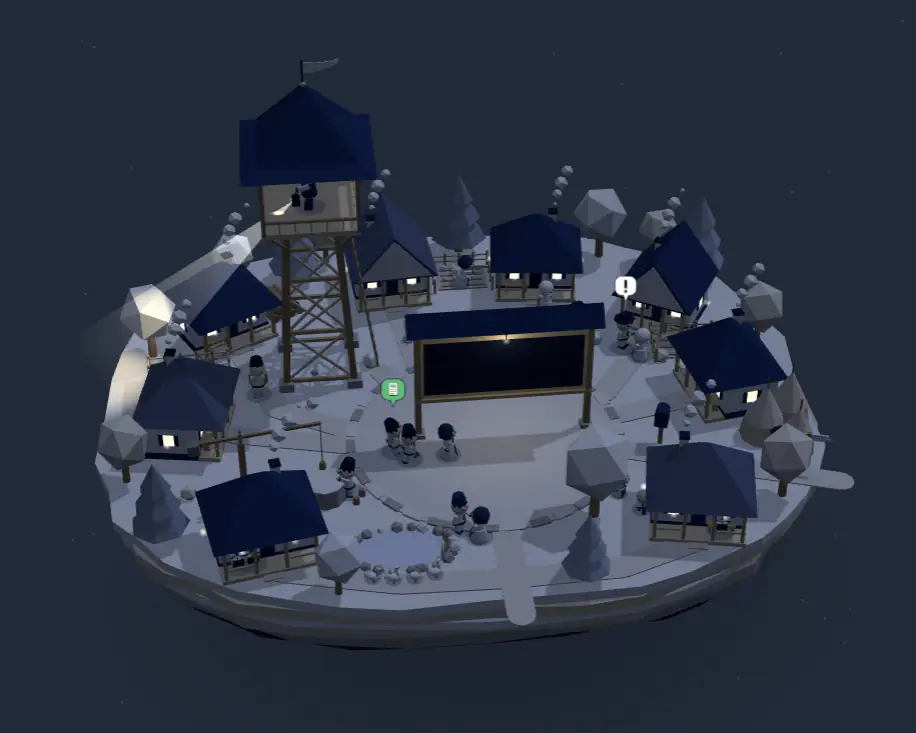
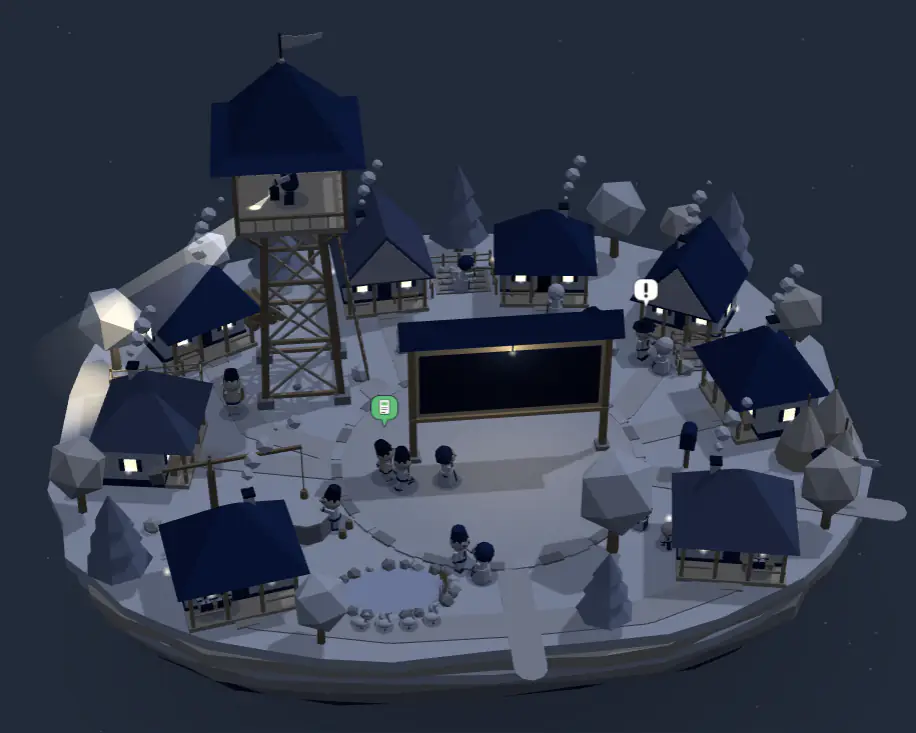
Match posters to the final framing, per-angle fit, phone close-up gating, round-2 captures

diff --git a/src/components/home/sat/VillageHero.tsx b/src/components/home/sat/VillageHero.tsx
@@ -71,8 +71,6 @@ export default function VillageHero({ bills }: { bills: BillLite[]; counts: Risk
   const liveRefs = useRef<(HTMLButtonElement | null)[]>([]);
   const posterRefs = useRef<(HTMLButtonElement | null)[]>([]);
   const fromUser = useRef(false);
-  const touchMode = useRef({ coarse: false, zoomed: false });
-  touchMode.current = { coarse, zoomed };
   const latest = useRef({ notices, newspaper, activeId: active?.id ?? null });
   latest.current = { notices, newspaper, activeId: active?.id ?? null };
 
@@ -111,9 +109,8 @@ export default function VillageHero({ bills }: { bills: BillLite[]; counts: Risk
             poster,
             surface: box,
             onProject: (rects, facing) => {
-              const { coarse: c, zoomed: z } = touchMode.current;
-              // Pe telefon, în afara prim-planului, o atingere pe tablă apropie camera; afișele se aleg de aproape.
-              const tappable = facing && !(c && !z);
+              // Cu tabla întoarsă, afișele nu se pot apăsa (rămân accesibile din tastatură și din ‹ ›).
+              const pe = facing ? '' : 'none';
               liveRefs.current.forEach((el, i) => {
                 if (!el) return;
                 const w = Math.max(rects[i * 4 + 2], 6) + 2;
@@ -121,7 +118,7 @@ export default function VillageHero({ bills }: { bills: BillLite[]; counts: Risk
                 el.style.width = `${w}px`;
                 el.style.height = `${h}px`;
                 el.style.transform = `translate(${rects[i * 4] - w / 2}px, ${rects[i * 4 + 1] - h / 2}px)`;
-                el.style.pointerEvents = tappable ? 'auto' : 'none';
+                el.style.pointerEvents = pe;
               });
               const b = boardRef.current;
               const n = (rects.length >> 2) - 1;
@@ -131,7 +128,7 @@ export default function VillageHero({ bills }: { bills: BillLite[]; counts: Risk
                 b.style.width = `${w}px`;
                 b.style.height = `${h}px`;
                 b.style.transform = `translate(${rects[n * 4] - w / 2}px, ${rects[n * 4 + 1] - h / 2}px)`;
-                b.style.pointerEvents = facing ? 'auto' : 'none';
+                b.style.pointerEvents = pe;
               }
             },
             onFirstFrame: () => setReady(true),
@@ -210,7 +207,10 @@ export default function VillageHero({ bills }: { bills: BillLite[]; counts: Risk
     if (mode !== 'live') return;
     const sync = () => sceneRef.current?.setTheme();
     const mo = new MutationObserver(sync);
-    mo.observe(document.documentElement, { attributes: true, attributeFilter: ['data-theme'] });
+    mo.observe(document.documentElement, {
+      attributes: true,
+      attributeFilter: ['data-theme'],
+    });
     const mq = window.matchMedia('(prefers-color-scheme: dark)');
     mq.addEventListener('change', sync);
     return () => {
@@ -245,10 +245,24 @@ export default function VillageHero({ bills }: { bills: BillLite[]; counts: Risk
   };
 
   const live = mode === 'live' && ready;
+  const closeUpFirst = coarse && !zoomed;
+
+  // Când scena preia de la poster, focusul de pe un afiș trece pe același afiș din scenă.
+  const focusedPoster = useRef(-1);
+  useEffect(() => {
+    if (!live || focusedPoster.current < 0) return;
+    liveRefs.current[focusedPoster.current]?.focus({ preventScroll: true });
+    focusedPoster.current = -1;
+  }, [live]);
   const refs = live ? liveRefs : posterRefs;
   const onNoticeKey = (e: KeyboardEvent<HTMLButtonElement>, i: number) => {
     const { cols } = boardGrid(open.length);
-    const delta = { ArrowRight: 1, ArrowLeft: -1, ArrowDown: cols, ArrowUp: -cols }[e.key];
+    const delta = {
+      ArrowRight: 1,
+      ArrowLeft: -1,
+      ArrowDown: cols,
+      ArrowUp: -cols,
+    }[e.key];
     if (!delta) return;
     e.preventDefault();
     const j = Math.min(open.length - 1, Math.max(0, i + delta));
@@ -285,28 +299,41 @@ export default function VillageHero({ bills }: { bills: BillLite[]; counts: Risk
         {/* Posterul apare imediat, din CSS (după temă); scena 3D îl acoperă când e gata. */}
         <div
           aria-hidden
-          className={`absolute inset-0 bg-[image:var(--sat-poster)] bg-[length:100%_100%] bg-no-repeat transition-opacity duration-700 motion-reduce:transition-none ${
-            live ? 'opacity-0' : 'opacity-100'
+          className={`absolute inset-0 bg-[image:var(--sat-poster)] bg-[length:100%_100%] bg-no-repeat transition-opacity motion-reduce:transition-none ${
+            live ? 'opacity-0 delay-700 duration-200' : 'opacity-100'
           }`}
         />
-        {!live && <PosterNotices open={open} activeId={active?.id} onPick={pick} refs={posterRefs} onKey={onNoticeKey} onChoose={choose} />}
+        {!live && (
+          <PosterNotices
+            open={open}
+            activeId={active?.id}
+            onPick={pick}
+            refs={posterRefs}
+            onKey={onNoticeKey}
+            onChoose={choose}
+            onFocusAt={(i) => (focusedPoster.current = i)}
+          />
+        )}
         <canvas
           ref={canvasRef}
           aria-hidden
           className={`absolute inset-0 h-full w-full transition-opacity duration-700 motion-reduce:transition-none ${live ? 'opacity-100' : 'opacity-0'}`}
         />
         {mode === 'live' && (
-          <div className="absolute inset-0" role="group" aria-label="Afișele de pe avizier. Alege un afiș ca să vezi proiectul.">
-            {coarse && !zoomed && (
-              <button
-                ref={boardRef}
-                type="button"
-                tabIndex={-1}
-                aria-hidden
-                className="absolute left-0 top-0 h-0 w-0 rounded-md bg-transparent"
-                onClick={() => sceneRef.current?.setZoom(true)}
-              />
-            )}
+          <div
+            className={`absolute inset-0 ${closeUpFirst ? '[&_button[aria-pressed]]:pointer-events-none' : ''}`}
+            role="group"
+            aria-label="Afișele de pe avizier. Alege un afiș ca să vezi proiectul."
+          >
+            {/* Pe telefon, o atingere pe tablă apropie camera; afișele se aleg apoi de aproape. */}
+            <button
+              ref={boardRef}
+              type="button"
+              tabIndex={-1}
+              aria-hidden
+              className={`absolute left-0 top-0 h-0 w-0 rounded-md bg-transparent ${closeUpFirst ? '' : 'hidden'}`}
+              onClick={() => sceneRef.current?.setZoom(true)}
+            />
             {open.map((b, i) => (
               <button
                 key={b.id}
@@ -394,6 +421,7 @@ function PosterNotices({
   refs,
   onKey,
   onChoose,
+  onFocusAt,
 }: {
   open: BillLite[];
   activeId: string | undefined;
@@ -401,43 +429,55 @@ function PosterNotices({
   refs: RefObject<(HTMLButtonElement | null)[]>;
   onKey: (e: KeyboardEvent<HTMLButtonElement>, i: number) => void;
   onChoose: (id: string) => void;
+  onFocusAt: (i: number) => void;
 }) {
   const { cols, rows } = boardGrid(open.length);
   return (
     <div
-      role="group"
-      aria-label="Afișele de pe avizier. Alege un afiș ca să vezi proiectul."
-      className="absolute grid gap-x-[1.8%] gap-y-[9%] p-[0.4%]"
+      className="absolute"
       style={{
         left: `${POSTER_BOARD.left}%`,
         top: `${POSTER_BOARD.top}%`,
         width: `${POSTER_BOARD.width}%`,
         height: `${POSTER_BOARD.height}%`,
-        gridTemplateColumns: `repeat(${cols}, minmax(0, 1fr))`,
-        gridTemplateRows: `repeat(${rows}, minmax(0, 1fr))`,
         transform: `skewY(${POSTER_BOARD.skew}deg)`,
       }}
     >
-      {open.map((b, i) => {
-        const on = b.id === activeId;
-        return (
-          <button
-            key={b.id}
-            ref={(el) => {
-              refs.current[i] = el;
-            }}
-            type="button"
-            aria-pressed={on}
-            aria-label={label(b)}
-            className={`mx-auto aspect-[11/10] h-full max-w-full rounded-[1px] ${RISK[b.analysis.consensus.riskLevel].fill} ${on ? 'relative z-10 scale-125 ring-2 ring-surface' : ''} transition-transform`}
-            onMouseEnter={() => onPick(b.id, false)}
-            onFocus={() => onPick(b.id, true)}
-            onClick={() => onChoose(b.id)}
-            onKeyDown={(e) => onKey(e, i)}
-            {...trackAttrs('village_select', { bill_id: b.id })}
-          />
-        );
-      })}
+      {/* Aceeași așezare ca în scenă: marginea tablei, apoi câte o celulă pe afiș. */}
+      <div
+        role="group"
+        aria-label="Afișele de pe avizier. Alege un afiș ca să vezi proiectul."
+        className="absolute inset-x-[2.9%] inset-y-[6.5%] grid"
+        style={{
+          gridTemplateColumns: `repeat(${cols}, minmax(0, 1fr))`,
+          gridTemplateRows: `repeat(${rows}, minmax(0, 1fr))`,
+        }}
+      >
+        {open.map((b, i) => {
+          const on = b.id === activeId;
+          return (
+            <button
+              key={b.id}
+              ref={(el) => {
+                refs.current[i] = el;
+              }}
+              type="button"
+              aria-pressed={on}
+              aria-label={label(b)}
+              className={`h-[84%] w-[82%] place-self-center rounded-[1px] ${RISK[b.analysis.consensus.riskLevel].fill} ${on ? 'relative z-10 scale-125 ring-2 ring-surface' : ''} transition-transform`}
+              onMouseEnter={() => onPick(b.id, false)}
+              onFocus={() => {
+                onPick(b.id, true);
+                onFocusAt(i);
+              }}
+              onBlur={(e) => e.relatedTarget && onFocusAt(-1)}
+              onClick={() => onChoose(b.id)}
+              onKeyDown={(e) => onKey(e, i)}
+              {...trackAttrs('village_select', { bill_id: b.id })}
+            />
+          );
+        })}
+      </div>
     </div>
   );
 }

diff --git a/src/components/home/sat/scene/index.ts b/src/components/home/sat/scene/index.ts
@@ -79,6 +79,9 @@ const NIGHT = {
   sunPos: new Vector3(8, 15, -4),
 };
 
+/** Spre ce privește soarele: mijlocul satului (umbrele nu depind de unghiul camerei). */
+const SUN_AIM = new Vector3(0, 1.6, 0.6);
+
 type NoticeSlot = { x: number; y: number; z: number; level: RiskLevel; id: string };
 type NavigatorHints = Navigator & { deviceMemory?: number };
 
@@ -332,8 +335,8 @@ export function createVillageScene(canvas: HTMLCanvasElement, opts: SceneOptions
     sun.color.copy(DAY.sun).lerp(NIGHT.sun, n);
     sun.intensity = lerp(DAY.sunI, NIGHT.sunI, n);
     sun.shadow.intensity = lerp(DAY.shadow, NIGHT.shadow, n);
-    sun.position.copy(DAY.sunPos).lerp(NIGHT.sunPos, n).add(villageTarget);
-    sun.target.position.copy(villageTarget);
+    sun.position.copy(DAY.sunPos).lerp(NIGHT.sunPos, n).add(SUN_AIM);
+    sun.target.position.copy(SUN_AIM);
     paneMat.emissiveIntensity = n * 1.05;
     paneMat.color.set(MAT.pane).lerp(C.lamp, n * 0.4);
     spot.intensity = lerp(DAY.spot, NIGHT.spot, n);
@@ -393,6 +396,7 @@ export function createVillageScene(canvas: HTMLCanvasElement, opts: SceneOptions
     return radius;
   };
   const fit = () => {
+    const t0 = performance.now();
     camera.aspect = cssW / cssH;
     camera.updateProjectionMatrix();
     for (let i = 0; i < FIT_STEPS; i++) {
@@ -403,6 +407,7 @@ export function createVillageScene(canvas: HTMLCanvasElement, opts: SceneOptions
       fitY[i] = villageTarget.y;
     }
     boardRadius = fitRadius(boardPts, [0], boardTarget, ZOOM_ELEVATION, 0.95, 0.8, false);
+    canvas.dataset.fitMs = (performance.now() - t0).toFixed(1);
   };
 
   const pixelRatio = () => Math.min(low ? LOW_DPR : MAX_DPR, window.devicePixelRatio || 1);
@@ -584,6 +589,7 @@ export function createVillageScene(canvas: HTMLCanvasElement, opts: SceneOptions
   const sync = () => {
     last = 0;
     renderer.setAnimationLoop(playing() ? frame : null);
+    canvas.dataset.loop = playing() ? 'on' : `off v${+visible} r${+reduced}`;
     if (!playing() && !disposed) render();
   };
 

diff --git a/src/components/home/sat/types.ts b/src/components/home/sat/types.ts
@@ -49,4 +49,4 @@ export function boardGrid(n: number) {
  * Unde e tabla avizierului în poster, în procente din imagine, măsurat pe pixelii posterului.
  * skew: tabla e văzută puțin din stânga, așa că marginile de sus și de jos urcă spre dreapta.
  */
-export const POSTER_BOARD = { left: 46.4, top: 46.38, width: 17.14, height: 6.82, skew: -3.9 };
+export const POSTER_BOARD = { left: 45.85, top: 47.89, width: 19.54, height: 7.77, skew: -3.8 };

diff --git a/output/sat-3d-2026-10-26/overlay.py b/output/sat-3d-2026-10-26/overlay.py
@@ -1,0 +1,44 @@
+# Desenează mâna vizitatorului peste cadrele video (headless Chrome nu arată cursorul).
+#   python3 overlay.py <dir cadre> <dir ieșire> <dpr> [--touch]
+# Citește <dir cadre>/cursor.json, scris de capture.mjs în modul video.
+import json
+import sys
+from pathlib import Path
+
+from PIL import Image, ImageDraw
+
+src, dst, dpr = Path(sys.argv[1]), Path(sys.argv[2]), float(sys.argv[3])
+touch = '--touch' in sys.argv
+dst.mkdir(parents=True, exist_ok=True)
+cursor = json.loads((src / 'cursor.json').read_text())
+frames = sorted(src.glob('f*.png'))
+
+# Săgeata clasică, în px CSS, cu vârful în (0, 0).
+ARROW = [(0, 0), (0, 17), (4.5, 13), (7.5, 20), (10, 19), (7, 12.5), (12.5, 12.5)]
+RIPPLE_FRAMES = 12
+
+ripples = []  # (cadru de start, x, y)
+for i, f in enumerate(frames):
+    im = Image.open(f).convert('RGBA')
+    layer = Image.new('RGBA', im.size, (0, 0, 0, 0))
+    d = ImageDraw.Draw(layer)
+    c = cursor[i] if i < len(cursor) else None
+    if c and c.get('touch'):
+        ripples.append((i, c['touch']['x'], c['touch']['y']))
+    if touch:
+        for start, x, y in ripples:
+            k = (i - start) / RIPPLE_FRAMES
+            if 0 <= k <= 1:
+                r = (16 + 22 * k) * dpr
+                a = int(150 * (1 - k))
+                cx, cy = x * dpr, y * dpr
+                d.ellipse((cx - r, cy - r, cx + r, cy + r), fill=(24, 33, 58, a // 3), outline=(255, 255, 255, a), width=int(2 * dpr))
+    elif c:
+        x, y = c['x'] * dpr, c['y'] * dpr
+        if c['down']:
+            r = 15 * dpr
+            d.ellipse((x - r, y - r, x + r, y + r), fill=(24, 33, 58, 50), outline=(24, 33, 58, 120), width=int(1.5 * dpr))
+        pts = [(x + px * dpr * 1.2, y + py * dpr * 1.2) for px, py in ARROW]
+        d.polygon(pts, fill=(255, 255, 255, 255), outline=(24, 33, 58, 255), width=max(1, int(1.2 * dpr)))
+    Image.alpha_composite(im, layer).convert('RGB').save(dst / f.name)
+print(len(frames), 'cadre')
